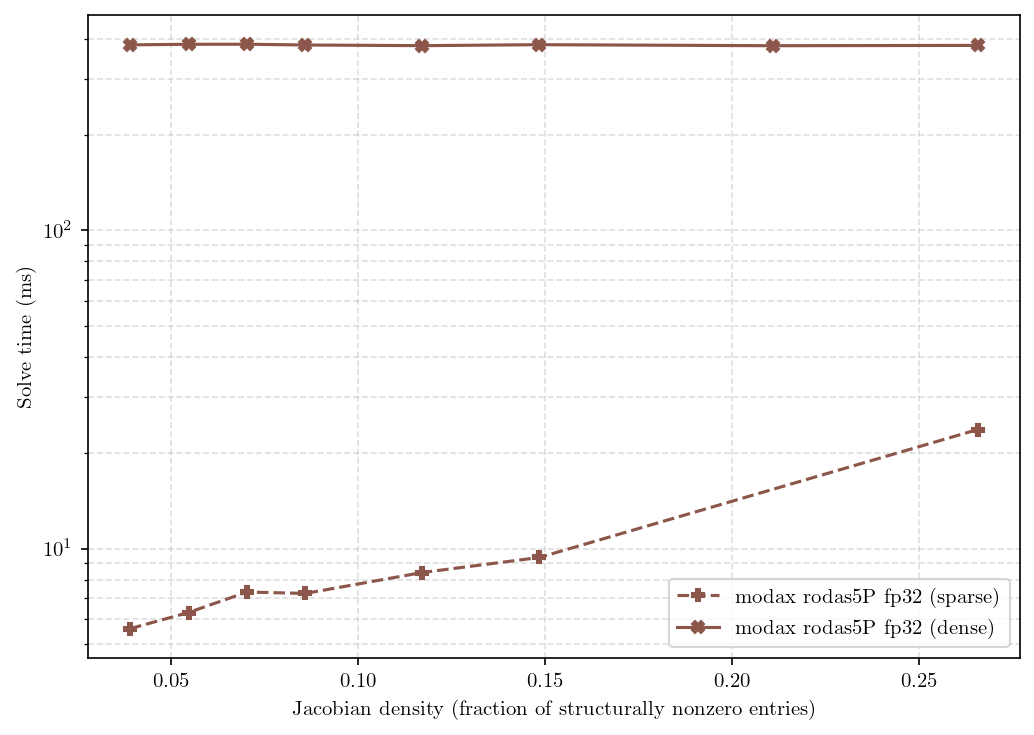
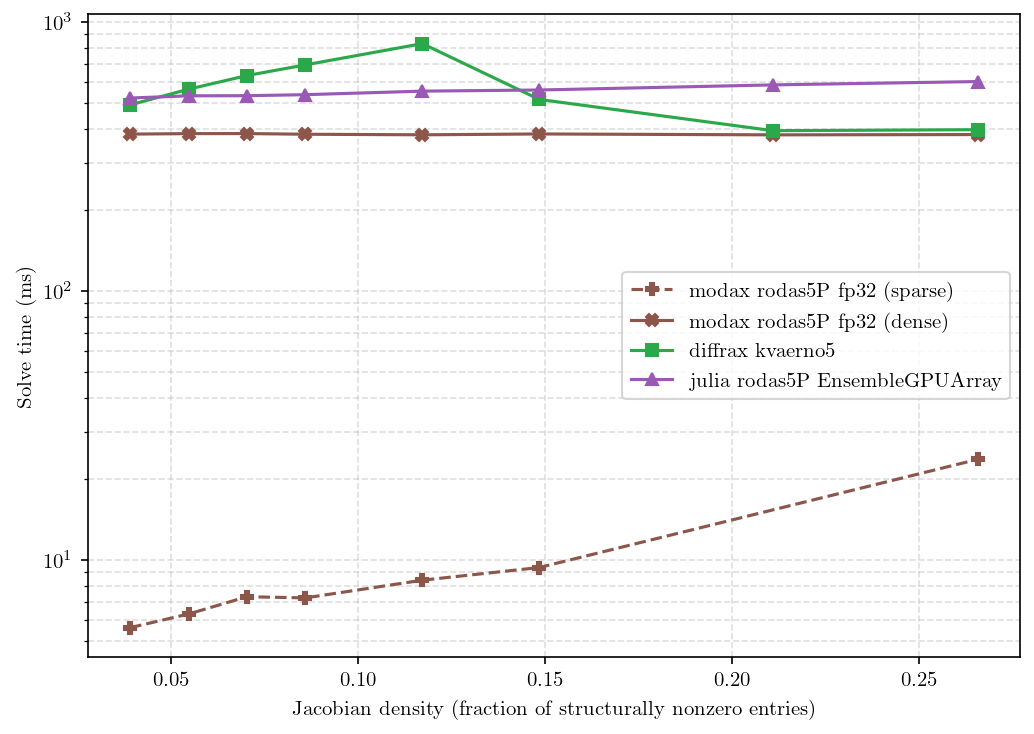
Add Diffrax and Julia lines to the Jacobian-density benchmark
The Julia van der Pol ring takes the same coupling_range the Python system does, one coupling term per ring position with the strength divided by the range, and its right-hand side matches the Python one to round-off at every range with the analytic Jacobian checked against finite differences. benchmarks/stiff_vdp_sparsity then times Diffrax Kvaerno5 and Julia Rodas5P on both DiffEqGPU backends beside the two modax cases, all of them dense; the modax points stayed cached. The Julia kernel backend hit the 120 s cap at every range, as it does at 64 dimensions in the dimensionality sweep, so the plot carries no line for it.

diff --git a/benchmarks/stiff_vdp_sparsity/main.py b/benchmarks/stiff_vdp_sparsity/main.py
@@ -4,14 +4,15 @@ Fixes the system at 64 dimensions (n_osc = 32) and an ensemble of 1000
 identical trajectories, and sweeps the lattice's coupling range -- how many
 oscillators along the ring each one couples to -- from nearest neighbours to
 all-to-all. Each range gives the right-hand side a different Jacobian density,
-which is the x axis. Two cases: modax Rodas5P handed the Jacobian's sparsity
-pattern, which buys it one Enzyme sweep per colour of the pattern and the
-compiled sparse LU, and the same solver without it, which sweeps every column
-and factorises the dense matrix. The dense case does not depend on the
-density; the question is how far the sparse case's advantage stretches as the
-pattern fills in. A point that does not compile and solve within the case
-timeout is recorded as such and omitted from the plot. Outputs a CSV and a plot
-named after the GPU.
+which is the x axis. modax Rodas5P is timed twice: handed the Jacobian's
+sparsity pattern, which buys it one Enzyme sweep per colour of the pattern and
+the compiled sparse LU, and without it, sweeping every column and factorising
+the dense matrix. Diffrax Kvaerno5 and Julia Rodas5P on both DiffEqGPU
+ensemble backends, all dense, sit alongside for scale. The dense cases do not
+depend on the density; the question is how far the sparse case's advantage
+stretches as the pattern fills in. A point that fails, or does not compile and
+solve within the case timeout, is recorded as such and omitted from the plot.
+Outputs a CSV and a plot named after the GPU.
 
 Usage:
     uv run python benchmarks/stiff_vdp_sparsity/main.py
@@ -37,6 +38,8 @@ from benchmarks._sweep import (
     main,
 )
 from modax.rodas5P import solve as rodas5P_solve
+from reference.solvers.python.diffrax_kvaerno5 import solve as diffrax_kvaerno5_solve
+from reference.solvers.python.julia_rodas5P import solve as julia_rodas5P_solve
 from reference.systems.python import vdp
 
 jax.config.update("jax_enable_x64", True)
@@ -64,7 +67,11 @@ def _problem(coupling_range: int) -> Problem:
         _N_OSC, _ENSEMBLE_SIZE, divergence=IDENTICAL_DIVERGENCE
     )
     return Problem(
-        ode_fn, y0, params, sparsity=vdp.make_sparsity(_N_OSC, coupling_range)
+        ode_fn,
+        y0,
+        params,
+        julia_system_config={"n_osc": _N_OSC, "coupling_range": coupling_range},
+        sparsity=vdp.make_sparsity(_N_OSC, coupling_range),
     )
 
 
@@ -75,6 +82,8 @@ BENCHMARK = SweepBenchmark(
     values=_COUPLING_RANGES,
     t_span=vdp.TIMES,
     make_problem=_problem,
+    julia_solve=julia_rodas5P_solve,
+    julia_system="vdp",
     cases=(
         SweepCase(
             key="modax rodas5P fp32 (sparse)",
@@ -90,6 +99,30 @@ BENCHMARK = SweepBenchmark(
             color="#8c564b",
             marker="X",
             solve_fn=rodas5P_solve,
+            kwargs=_SOLVER_KWARGS,
+        ),
+        SweepCase(
+            key="diffrax kvaerno5",
+            color="#2ba84a",
+            marker="s",
+            solve_fn=diffrax_kvaerno5_solve,
+            kwargs=_SOLVER_KWARGS,
+        ),
+        SweepCase(
+            key="julia rodas5P EnsembleGPUArray",
+            color="#9b59b6",
+            marker="^",
+            mode="julia",
+            ensemble_backend="EnsembleGPUArray",
+            kwargs=_SOLVER_KWARGS,
+        ),
+        SweepCase(
+            key="julia rodas5P EnsembleGPUKernel",
+            color="#9b59b6",
+            marker="v",
+            linestyle="--",
+            mode="julia",
+            ensemble_backend="EnsembleGPUKernel",
             kwargs=_SOLVER_KWARGS,
         ),
     ),
